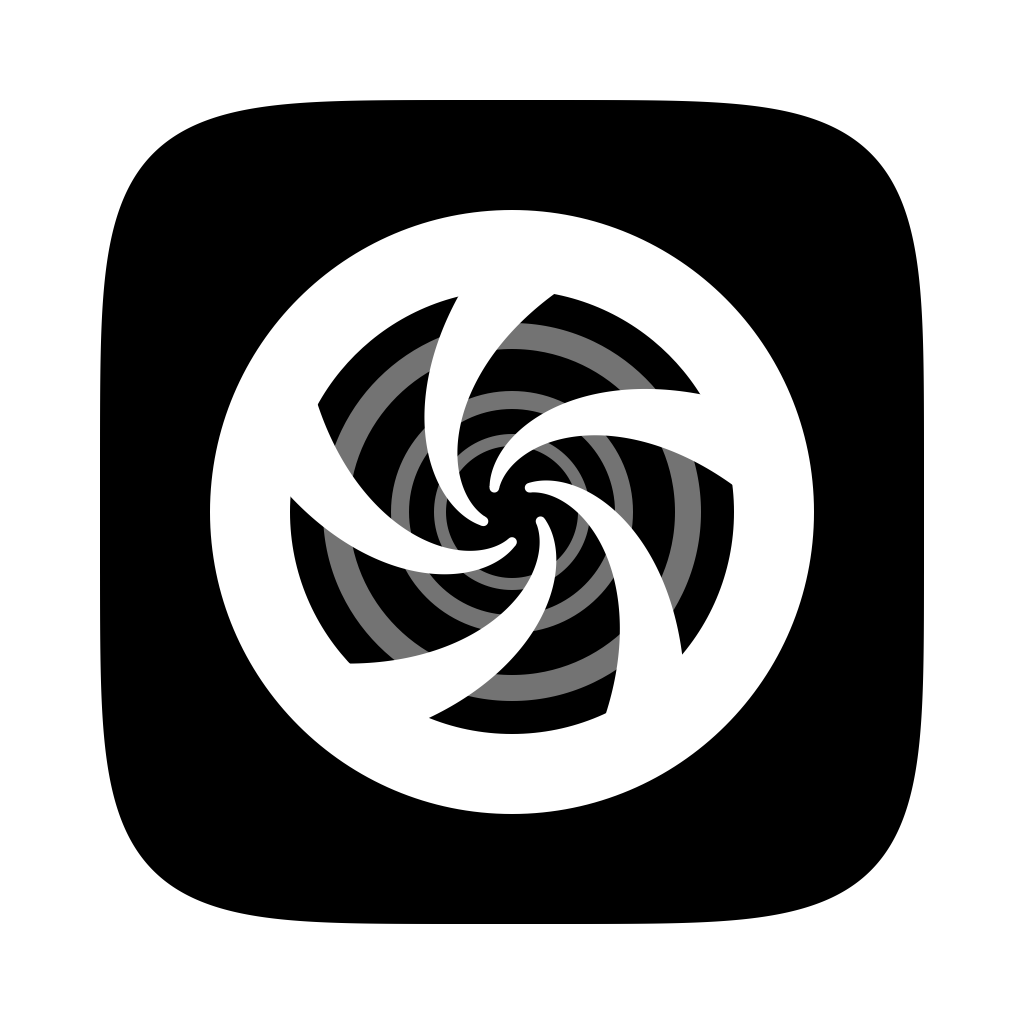
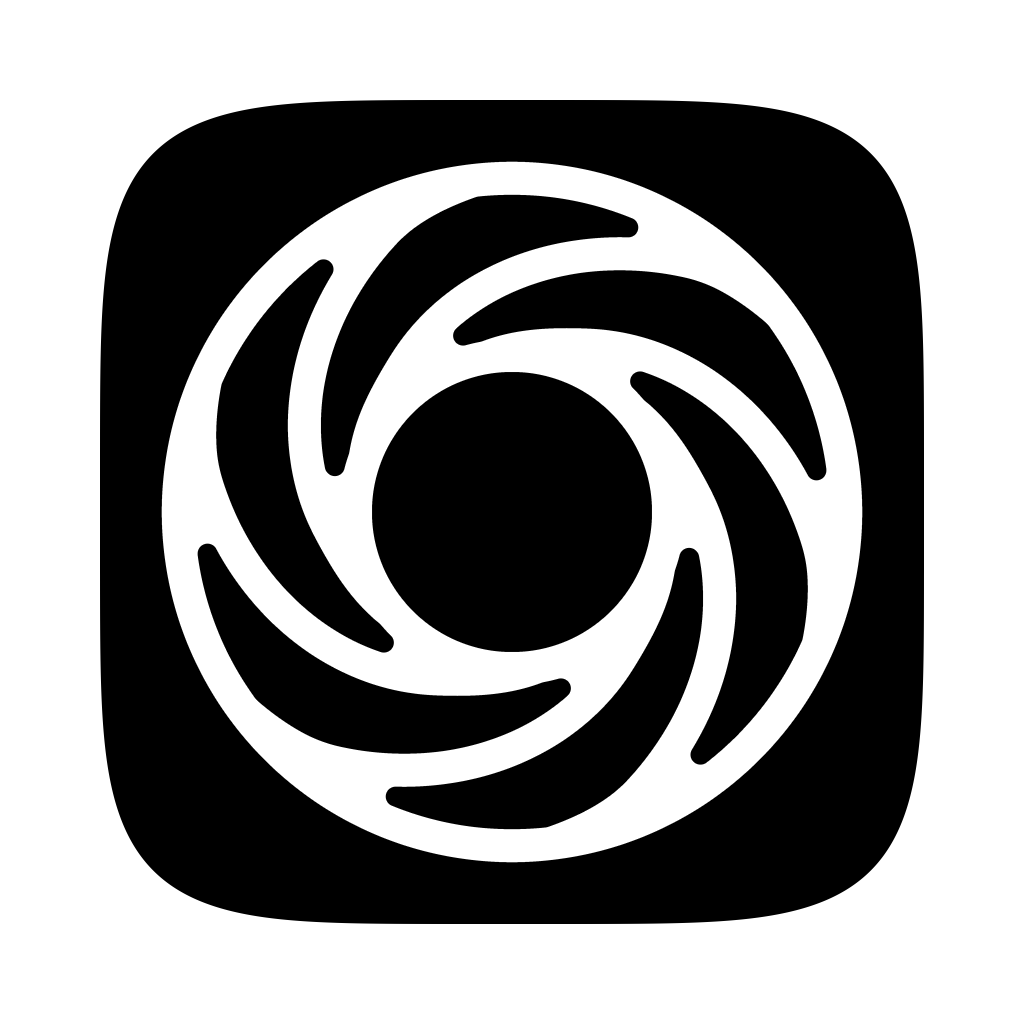
Screenshooter 1.1.2: новая иконка и значок в строке меню
На иконке теперь нарезной ствол: два кольца, дуло и край канала, и шесть
спиральных линий одной толщины между ними, строго чёрно-белые. Линии отходят
от колец полого, а острые кончики чёрных клиньев у стыков скруглены
морфологическим закрытием на сетке 4096. Значок в строке меню повторяет иконку
линиями 0,6 pt, и при снимке спираль проворачивается на одну линию. Описание
значка в инструкции из DMG и описание иконки в README обновлены.

Changed region(s): [[0.1562, 0.1562, 0.8438, 0.8438]]

diff --git a/scripts/make_icon.swift b/scripts/make_icon.swift
@@ -2,65 +2,150 @@
 // and Resources/AppIcon-1024.png (the whole icon, for the README).
 // Usage: swift scripts/make_icon.swift
 //
-// Screen + shooter: the view straight down a gun barrel, the rifling turning inside it, like the gun barrel opening of
-// the Bond films. Only the muzzle and the rifling, no gun. Flat, black and white, like the other apps of the family:
-// a pure black body and white marks, flat fills only, with no gradients, glass or shadows. The one grey (white at
-// 45 % over the black body) gives depth. The mark is the muzzle ring, about as heavy as the family's marks (80 px; the
-// pills of the other icons are 84), rings of the bore in grey shrinking into the dark, and five grooves turning in
-// across them. The grooves are logarithmic spirals that narrow with depth, as down a tunnel; they leave the muzzle
-// from under the ring and end short of the centre, which stays dark.
+// Screen + shooter: the view down a rifled gun barrel, like the gun barrel opening of the Bond films, and only the
+// barrel: no figure in the bore, no gun. Flat and strictly black and white, like the other apps of the family: a black
+// body and white marks, with no greys, gradients or shadows. Two white rings, the muzzle outside and the edge of the bore
+// inside, and six spiral lines running from one ring to the other, all of one width. The hole inside the inner ring is
+// left black. The lines are logarithmic spirals, so the gaps between them close in towards the bore as down a tunnel:
+// that is all the perspective there is. The outer ring keeps a black border round the body clear.
+//
+// Where a line meets a ring it branches off it instead of cutting into it. Over the last part of its length at each end
+// the line turns from 23° to the ring's tangent to 12°, smoothly, so the bend at the join is mild. Then the whole white
+// shape gets a morphological closing with a disc of 10 px (0.3 of the line width) on a 4096 grid: the narrow tip of the
+// black wedge between a line and a ring becomes round, nothing else changes. Bigger discs fill whole ends of the black
+// spaces between the lines.
 import AppKit
 
 let bodyColor: (red: CGFloat, green: CGFloat, blue: CGFloat) = (0, 0, 0)
 
-/// The mark, drawn with the current (white) colours in the flat drawing's coordinates: a 1024 square whose body is the
-/// squircle at 100...924, y growing upwards.
-func drawMark(_ ctx: CGContext) {
-    let center = CGPoint(x: 512, y: 512)
-    func ring(radius: CGFloat, width: CGFloat) {
-        ctx.addEllipse(in: CGRect(x: center.x - radius, y: center.y - radius, width: 2 * radius, height: 2 * radius))
-        ctx.setLineWidth(width)
-        ctx.strokePath()
-    }
-    /// A groove: a logarithmic spiral from radius `outer` in to `inner`, turning by `twist` radians on the way, its
-    /// width shrinking with the radius as if seen down a tunnel; filled, with a round inner end.
-    func groove(start: CGFloat, outer: CGFloat, inner: CGFloat, twist: CGFloat, width: CGFloat) {
-        func point(_ f: CGFloat) -> (CGPoint, CGFloat) {
-            let r = outer * pow(inner / outer, f), a = start + twist * f
-            return (CGPoint(x: center.x + r * cos(a), y: center.y + r * sin(a)), r)
-        }
-        var left: [CGPoint] = [], right: [CGPoint] = []
-        let steps = 120
-        for i in 0...steps {
-            let f = CGFloat(i) / CGFloat(steps)
-            let (p, r) = point(f)
-            let (ahead, _) = point(min(1, f + 0.001)), (behind, _) = point(max(0, f - 0.001))
-            let length = hypot(ahead.x - behind.x, ahead.y - behind.y)
-            let normal = CGPoint(x: -(ahead.y - behind.y) / length, y: (ahead.x - behind.x) / length)
-            let half = width * r / outer / 2
-            left.append(CGPoint(x: p.x + normal.x * half, y: p.y + normal.y * half))
-            right.append(CGPoint(x: p.x - normal.x * half, y: p.y - normal.y * half))
-        }
-        ctx.move(to: left[0])
-        for p in left.dropFirst() + right.reversed() { ctx.addLine(to: p) }
-        ctx.closePath()
-        ctx.fillPath()
-        let (end, r) = point(1)
-        let half = width * r / outer / 2
-        ctx.fillEllipse(in: CGRect(x: end.x - half, y: end.y - half, width: 2 * half, height: 2 * half))
-    }
+/// Sizes in half-bodies (412 px of the 1024 icon) from the centre.
+let barrelWidth = 0.08              // 33 px for the rings and the lines alike: lines stay apart in a 32 px icon
+let barrelMouth = 0.85              // outer edge of the outer ring, leaving a black border of 62 px at the sides
+let barrelHole = 0.34               // inner edge of the inner ring: the black hole
+let barrelGrid = 4096               // pixels across the body for the closing
 
-    // The muzzle takes about three quarters of the body, as wide as the other icons' marks look.
-    ring(radius: 262, width: 80)
-    // The bore in perspective: rings closer and thinner the deeper they are, in grey.
-    ctx.saveGState()
-    ctx.setAlpha(0.45)
-    for (radius, width) in [(176.0, 26.0), (112.0, 18.0), (72.0, 12.0)] { ring(radius: radius, width: width) }
-    ctx.restoreGState()
-    // Five grooves, broad enough to show at 32 px.
-    for k in 0..<5 {
-        groove(start: CGFloat(k) * 2 * .pi / 5 + 0.2, outer: 262, inner: 30, twist: 2.0, width: 84)
+/// The middle line of one spiral, from the outer ring's middle to the inner one's. In the middle the spiral keeps the
+/// angle of a logarithmic spiral (67° to the radius, as when it wound 0.35 of a turn from the mouth to the hole); towards
+/// both ends the angle to the ring's tangent eases down to 12° along a smootherstep, over about 18 % of the length.
+func barrelSpiral(start: Double, steps: Int = 2000) -> [(Double, Double)] {
+    let outer = barrelMouth - barrelWidth / 2, inner = barrelHole + barrelWidth / 2
+    let kMid = 0.35 * 2 * .pi / log(barrelMouth / barrelHole), kEnd = 1 / tan(12 * Double.pi / 180)
+    let zoneOut = 0.13, zoneIn = 0.25       // shares of the log radius: each about 18 % of the length
+    func ease(_ x: Double) -> Double { let t = min(max(x, 0), 1); return t * t * t * (t * (t * 6 - 15) + 10) }
+    let span = log(outer / inner)
+    var theta = start + kMid * log(barrelMouth / outer)
+    var points = [(outer * cos(theta), outer * sin(theta))]
+    for i in 1...steps {
+        let t = (Double(i) - 0.5) / Double(steps)
+        let bend = max(1 - ease(t / zoneOut), 1 - ease((1 - t) / zoneIn))
+        theta += (kMid + (kEnd - kMid) * bend) * span / Double(steps)
+        let r = outer * exp(-span * Double(i) / Double(steps))
+        points.append((r * cos(theta), r * sin(theta)))
     }
+    return points
+}
+
+/// Squared Euclidean distance transform of an n × n grid in place (Felzenszwalb and Huttenlocher): 0 at the feature
+/// pixels, a huge value elsewhere on input; the squared distance to the nearest feature pixel on output.
+func distanceTransform(_ grid: UnsafeMutableBufferPointer<Double>, _ n: Int) {
+    let f = UnsafeMutableBufferPointer<Double>.allocate(capacity: n), d = UnsafeMutableBufferPointer<Double>.allocate(capacity: n)
+    let v = UnsafeMutableBufferPointer<Int>.allocate(capacity: n), z = UnsafeMutableBufferPointer<Double>.allocate(capacity: n + 1)
+    defer { f.deallocate(); d.deallocate(); v.deallocate(); z.deallocate() }
+    func pass() {
+        var k = 0
+        v[0] = 0; z[0] = -1e20; z[1] = 1e20
+        for q in 1..<n {
+            var s = ((f[q] + Double(q * q)) - (f[v[k]] + Double(v[k] * v[k]))) / Double(2 * (q - v[k]))
+            while s <= z[k] {
+                k -= 1
+                s = ((f[q] + Double(q * q)) - (f[v[k]] + Double(v[k] * v[k]))) / Double(2 * (q - v[k]))
+            }
+            k += 1
+            v[k] = q; z[k] = s; z[k + 1] = 1e20
+        }
+        k = 0
+        for q in 0..<n {
+            while z[k + 1] < Double(q) { k += 1 }
+            d[q] = Double((q - v[k]) * (q - v[k])) + f[v[k]]
+        }
+    }
+    for x in 0..<n {
+        for y in 0..<n { f[y] = grid[y * n + x] }
+        pass()
+        for y in 0..<n { grid[y * n + x] = d[y] }
+    }
+    for y in 0..<n {
+        for x in 0..<n { f[x] = grid[y * n + x] }
+        pass()
+        for x in 0..<n { grid[y * n + x] = d[x] }
+    }
+}
+
+/// The signed distance, in grid pixels and positive inside, to the edge of the white shape after the closing; the grid
+/// covers the body square, row 0 at the top. Made once.
+let barrelField: [Double] = {
+    let n = barrelGrid, unit = Double(n) / 2
+    let ctx = CGContext(data: nil, width: n, height: n, bitsPerComponent: 8, bytesPerRow: n, space: CGColorSpaceCreateDeviceGray(),
+                        bitmapInfo: CGImageAlphaInfo.none.rawValue)!
+    func point(_ p: (Double, Double)) -> CGPoint { CGPoint(x: unit + unit * p.0, y: unit + unit * p.1) }
+    let path = CGMutablePath()
+    for r in [barrelMouth - barrelWidth / 2, barrelHole + barrelWidth / 2] {
+        path.addEllipse(in: CGRect(x: unit - unit * r, y: unit - unit * r, width: 2 * unit * r, height: 2 * unit * r))
+    }
+    // The lines' flat ends lie within the rings' strokes.
+    for line in 0..<6 {
+        let points = barrelSpiral(start: Double(line) * .pi / 3 + .pi / 2)
+        path.move(to: point(points[0]))
+        for p in points.dropFirst() { path.addLine(to: point(p)) }
+    }
+    ctx.addPath(path)
+    ctx.setStrokeColor(gray: 1, alpha: 1)
+    ctx.setLineWidth(barrelWidth * unit)
+    ctx.setLineCap(.butt)
+    ctx.setLineJoin(.round)
+    ctx.strokePath()
+    let pixels = ctx.data!.bindMemory(to: UInt8.self, capacity: n * n)
+    let radius = 0.3 * barrelWidth * unit
+    // Dilation: everything within the radius of the white. Erosion of that: what stays the radius away from its outside.
+    let toWhite = UnsafeMutableBufferPointer<Double>.allocate(capacity: n * n)
+    let toOutside = UnsafeMutableBufferPointer<Double>.allocate(capacity: n * n)
+    defer { toWhite.deallocate(); toOutside.deallocate() }
+    for i in 0..<(n * n) { toWhite[i] = pixels[i] >= 128 ? 0 : 1e20 }
+    distanceTransform(toWhite, n)
+    for i in 0..<(n * n) { toOutside[i] = toWhite[i] <= radius * radius ? 1e20 : 0 }
+    distanceTransform(toOutside, n)
+    var field = [Double](repeating: 0, count: n * n)
+    for i in 0..<(n * n) {
+        field[i] = toOutside[i] > 0 ? toOutside[i].squareRoot() - radius : -toWhite[i].squareRoot()
+    }
+    return field
+}()
+
+/// The mark, drawn with the current (white) colours in the flat drawing's coordinates: a 1024 square whose body is the
+/// squircle at 100...924, y growing upwards. The edge comes from the distance field, sampled once per device pixel.
+func drawMark(_ ctx: CGContext) {
+    let n = barrelGrid
+    let side = Int((824 * ctx.ctm.a).rounded())                 // device pixels across the body
+    let gridPerPixel = Double(n) / Double(side)
+    var rgba = [UInt8](repeating: 0, count: side * side * 4)
+    for j in 0..<side {
+        for i in 0..<side {
+            // Bilinear sample of the field at the pixel's centre.
+            let gx = min(max((Double(i) + 0.5) * gridPerPixel - 0.5, 0), Double(n - 1))
+            let gy = min(max((Double(j) + 0.5) * gridPerPixel - 0.5, 0), Double(n - 1))
+            let x0 = Int(gx), y0 = Int(gy), x1 = min(x0 + 1, n - 1), y1 = min(y0 + 1, n - 1)
+            let ax = gx - Double(x0), ay = gy - Double(y0)
+            let top = barrelField[y0 * n + x0] * (1 - ax) + barrelField[y0 * n + x1] * ax
+            let bottom = barrelField[y1 * n + x0] * (1 - ax) + barrelField[y1 * n + x1] * ax
+            let coverage = min(max(0.5 + (top * (1 - ay) + bottom * ay) / gridPerPixel, 0), 1)
+            let value = UInt8(coverage * 255 + 0.5)
+            let o = (j * side + i) * 4
+            rgba[o] = value; rgba[o + 1] = value; rgba[o + 2] = value; rgba[o + 3] = value
+        }
+    }
+    let bitmap = CGContext(data: &rgba, width: side, height: side, bitsPerComponent: 8, bytesPerRow: side * 4,
+                           space: CGColorSpace(name: CGColorSpace.sRGB)!, bitmapInfo: CGImageAlphaInfo.premultipliedLast.rawValue)!
+    ctx.draw(bitmap.makeImage()!, in: CGRect(x: 100, y: 100, width: 824, height: 824))
 }
 
 // MARK: - The icon files (the same in every app of the family)

diff --git a/Sources/Screenshooter/App/StatusIcon.swift b/Sources/Screenshooter/App/StatusIcon.swift
@@ -1,10 +1,10 @@
 import AppKit
 import QuartzCore
 
-/// The menu bar icon: the app icon's view down a gun barrel, in lines. The ring of the muzzle, three grooves of the
-/// rifling turning in, and the far end of the bore as a small ring. It is drawn in code as a template image and stands
-/// level with FaceID's icon next to it: the same square status item, a glyph as big as FaceID's (14.3 pt across, which a
-/// Retina menu bar shows as 14.5 pt) with its centre where FaceID's sits, and the same line width.
+/// The menu bar icon: the app icon in thin lines. The ring of the muzzle, a ring round the empty bore in the centre and six
+/// spiral groove lines running from one ring to the other, all one width. It is drawn in code as a template image and
+/// stands level with FaceID's icon next to it: the same square status item, a glyph as big as FaceID's (14.3 pt across,
+/// which a Retina menu bar shows as 14.5 pt) with its centre where FaceID's sits, in lines half as thick as FaceID's.
 ///
 /// It moves only at moments that matter and for well under a second: the rifling turns when a capture is taken, as if
 /// the barrel rotated, the icon bounces lightly when something lands on the shelf, and the rifling pulses softly while a
@@ -13,9 +13,11 @@ import QuartzCore
 final class StatusIcon {
     static let shared = StatusIcon()
 
-    /// The line width of FaceID's menu bar icon, measured on the SF Symbol it draws (faceid, 15 pt, regular). One place
-    /// to follow it when FaceID's icon changes.
-    nonisolated static let lineWidth: CGFloat = 1.18
+    /// One width for both rings and the grooves, about half of FaceID's 1.18 pt: on a Retina screen six grooves of
+    /// this width stay apart and keep an even weight.
+    nonisolated static let lineWidth: CGFloat = 0.6
+    /// The groove lines, as many as on the app icon.
+    nonisolated static let grooves = 6
     /// The glyph across, outer edge to outer edge: FaceID's glyph is as wide and as high.
     nonisolated static let diameter: CGFloat = 14.31
     /// The canvas, with room above the glyph for the bounce.
@@ -103,11 +105,11 @@ final class StatusIcon {
         }
     }
 
-    /// How far the rifling has turned over the motion, t from 0 to 1: a third of a turn, from one groove to the next,
-    /// slow at both ends, so it starts and stops on the icon at rest.
+    /// How far the rifling has turned over the motion, t from 0 to 1: from one groove to the next, slow at both ends, so it
+    /// starts and stops on the icon at rest.
     static func turn(_ t: Double) -> CGFloat {
         let eased = t * t * (3 - 2 * t)
-        return CGFloat(eased) * 2 * .pi / 3
+        return CGFloat(eased) * 2 * .pi / CGFloat(grooves)
     }
 
     /// How opaque the rifling is while a capture is in progress: down to half and back, every 1.2 s.
@@ -122,13 +124,19 @@ final class StatusIcon {
         return 0
     }
 
-    /// `turn` rotates the rifling (radians), `lift` raises the whole icon, `rifling` is the opacity of the grooves and
-    /// of the far end of the bore.
+    /// `turn` rotates the rifling (radians), `lift` raises the whole icon, `rifling` is the opacity of the grooves.
     static func image(turn: CGFloat = 0, lift: CGFloat = 0, rifling: CGFloat = 1) -> NSImage {
         let image = NSImage(size: canvas, flipped: true) { _ in
             let c = NSPoint(x: center.x, y: center.y - lift)
             let muzzle = (diameter - lineWidth) / 2
-            let bore: CGFloat = 2.2
+            // The ring round the bore: the hole inside it has a radius of 2.8 pt, big enough that next to the ring the
+            // gaps between six grooves stay 1.5 px wide on a Retina screen.
+            let bore = 2.8 + lineWidth / 2
+            // The grooves follow the app icon's spirals: 67° to the radius in the middle, easing towards both rings until
+            // they meet them at 12° to the tangent, so they branch off the rings instead of cutting into them.
+            let twist: CGFloat = 2.4, twistAtRing = 1 / tan(12 * CGFloat.pi / 180)
+            func ease(_ x: CGFloat) -> CGFloat { let t = min(max(x, 0), 1); return t * t * t * (t * (t * 6 - 15) + 10) }
+            let span = log(muzzle / bore)
             func stroke(_ path: NSBezierPath, opacity: CGFloat) {
                 NSColor.black.withAlphaComponent(opacity).setStroke()
                 path.lineWidth = lineWidth
@@ -136,20 +144,26 @@ final class StatusIcon {
                 path.lineJoinStyle = .round
                 path.stroke()
             }
-            stroke(NSBezierPath(ovalIn: NSRect(x: c.x - muzzle, y: c.y - muzzle, width: 2 * muzzle, height: 2 * muzzle)), opacity: 1)
-            // The rifling: three logarithmic spirals from the muzzle to the far end of the bore, turning faster deeper in.
-            let grooves = NSBezierPath()
-            for k in 0..<3 {
-                let start = CGFloat(k) * 2 * .pi / 3 - .pi / 2 + turn
-                for i in 0...48 {
-                    let f = CGFloat(i) / 48
-                    let r = muzzle * pow(bore / muzzle, f), a = start + 2.0 * f
+            let rings = NSBezierPath(ovalIn: NSRect(x: c.x - muzzle, y: c.y - muzzle, width: 2 * muzzle, height: 2 * muzzle))
+            rings.appendOval(in: NSRect(x: c.x - bore, y: c.y - bore, width: 2 * bore, height: 2 * bore))
+            stroke(rings, opacity: 1)
+            // The rifling: logarithmic spirals from the middle of one ring to the middle of the other; their ends stay
+            // within the rings' strokes.
+            let lines = NSBezierPath()
+            for k in 0..<grooves {
+                var a = CGFloat(k) * 2 * .pi / CGFloat(grooves) - .pi / 2 + turn
+                for i in 0...96 {
+                    if i > 0 {
+                        let t = (CGFloat(i) - 0.5) / 96
+                        let bend = max(1 - ease(t / 0.13), 1 - ease((1 - t) / 0.25))
+                        a += (twist + (twistAtRing - twist) * bend) * span / 96
+                    }
+                    let r = muzzle * exp(-span * CGFloat(i) / 96)
                     let point = NSPoint(x: c.x + r * cos(a), y: c.y + r * sin(a))
-                    if i == 0 { grooves.move(to: point) } else { grooves.line(to: point) }
+                    if i == 0 { lines.move(to: point) } else { lines.line(to: point) }
                 }
             }
-            grooves.appendOval(in: NSRect(x: c.x - bore, y: c.y - bore, width: 2 * bore, height: 2 * bore))
-            stroke(grooves, opacity: rifling)
+            stroke(lines, opacity: rifling)
             return true
         }
         image.isTemplate = true
